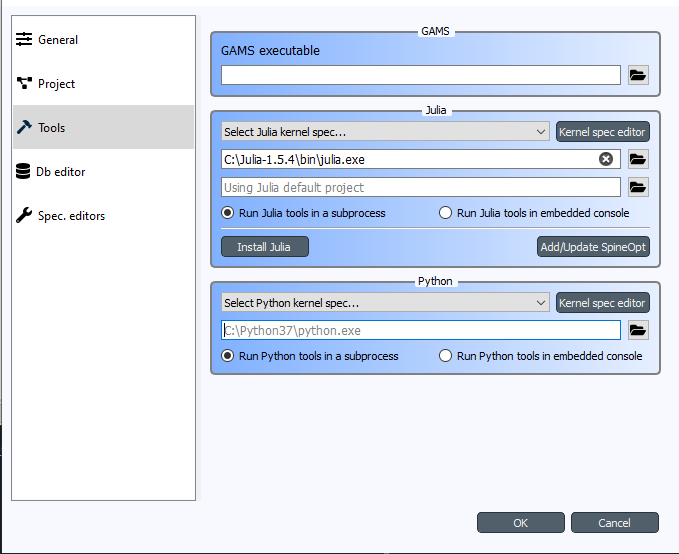
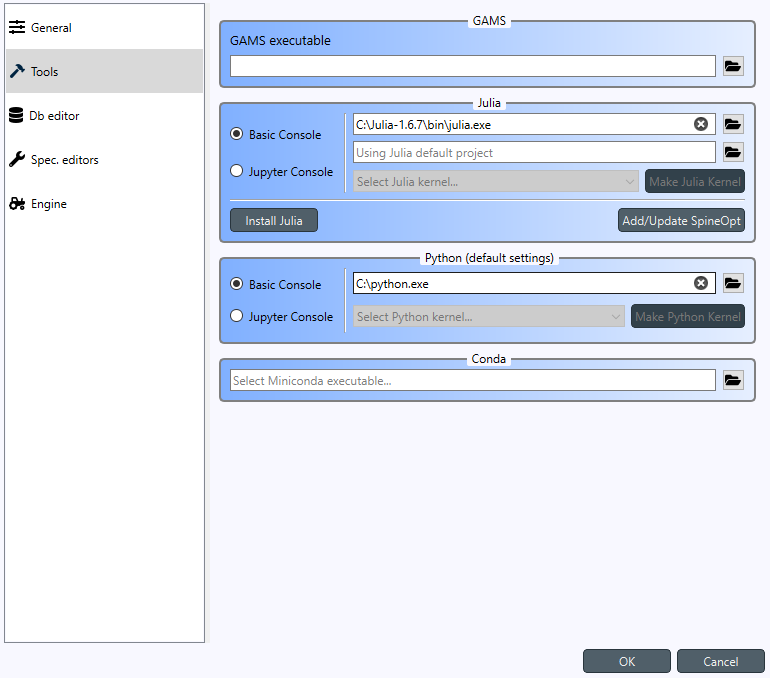
Update docs How to set up SpineOpt.jl -section
Re #2156

diff --git a/docs/source/how_to_run_spineopt.rst b/docs/source/how_to_run_spineopt.rst
@@ -10,29 +10,29 @@
 How to set up SpineOpt.jl
 *************************
 
-#. Install Julia (v1.2 or later) from `<https://julialang.org/downloads/>`_ if you don't have one.
+#. Install Julia (v1.6 or later) from `<https://julialang.org/downloads/>`_ if you don't have one.
    See latest **SpineOpt.jl** Julia compatibility information `here <https://github.com/spine-tools/SpineOpt.jl#spineoptjl>`_.
 
 #. Start Spine Toolbox
 
-#. Create a new project (*File->New project...*)
+#. Create a new project (**File -> New project...**)
 
-#. Select `File->Settings` from the main menu and open the `Tools` page.
+#. Select **File -> Settings** from the main menu and open the `Tools` page.
 
-#. Set a path to a Julia executable to the appropriate line edit (e.g. *C:\\Julia-1.5.4\\bin\\julia.exe*).
+#. Set a path to a Julia executable to the appropriate line edit (e.g. ``C:/Julia-1.5.4/bin/julia.exe``).
    Your selections should look similar to this now.
 
    .. image:: img/settings_tools_filled_for_spineopt_github.png
       :align: center
 
 #. *[Optional]* If you want to install and run SpineOpt in a specific Julia project environment (the place for
-   Project.toml and Manifest.toml), you can set the path to the environment folder to the line edit just below the
-   Julia executable (the one that says *Using Julia default project*).
+   ``Project.toml`` and ``Manifest.toml``), you can set the path to the environment folder to the line edit just below the
+   Julia executable (the one that says `Using Julia default project`).
 
 #. Next, you need to install **SpineOpt.jl** package for the Julia you just selected for Spine Toolbox. You can do
    this manually by `following the instructions <https://github.com/spine-tools/SpineOpt.jl#installation>`_
-   **or** you can install **SpineOpt.jl** by clicking the `Add/Update SpineOpt` button. After clicking the button,
-   an install/upgrade Spineopt wizard appears. Click `Next` twice and finally `Install SpineOpt`.
+   **or** you can install **SpineOpt.jl** by clicking the **Add/Update SpineOpt** button. After clicking the button,
+   an install/upgrade Spineopt wizard appears. Click **Next** twice and finally **Install SpineOpt**.
    **Wait until the process has finished** and you are greeted with this screen.
 
    .. image:: img/spineopt_install_wizard_successful.png
@@ -40,15 +40,17 @@ How to set up SpineOpt.jl
 
    Close the wizard.
 
-#. Click Ok to close the `Settings` window
-#. Back in the main window, select `PlugIns->Install plugin…` from the menu
-#. Select `SpineOpt` and click Ok. After a short while, a red *SpineOpt Plugin Toolbar* appears on the main window.
+#. Click **Ok** to close the **Settings** window
+#. Back in the main window, select **Plugins -> Install plugin…** from the menu
+#. Select `SpineOpt` and click **Ok**. After a short while, a red **SpineOpt Plugin Toolbar** will appear in the main
+   window.
 
 Spine Toolbox and Julia are now correctly set up for running **SpineOpt.jl**. Next step is to
-`Create a project workflow using SpineOpt.jl <https://spine-project.github.io/SpineOpt.jl/latest/getting_started/setup_workflow/>`_
-(takes you to SpineOpt documentation). See also :ref:`Tutorials` for more advanced use cases. For more information
-on how to select a specific Python or Julia version, see :ref:`Setting up External Tools`).
+`Create a project workflow using SpineOpt.jl <https://spine-tools.github.io/SpineOpt.jl/latest/getting_started/setup_workflow/>`_
+(takes you to SpineOpt documentation). See also `Tutorials
+<https://spine-tools.github.io/SpineOpt.jl/latest/tutorial/simple_system/>`_ in SpineOpt documentation for more advanced
+use cases. For more information on how to select a specific Python or Julia version, see :ref:`Setting up External Tools`).
 
-.. note:: The *SpineOpt Plugin Toolbar* contains two predefined Tools that make use of SpineOpt.jl. **The SpineOpt
-   Plugin is not a requirement to run SpineOpt.jl**, they are provided just for convenience and as examples to get
-   you started quickly.
+.. note:: The **SpineOpt Plugin Toolbar** contains an exporter specification as well as three predefined Tools that make
+   use of SpineOpt.jl. **The SpineOpt Plugin is not a requirement to run SpineOpt.jl**, they are provided just for
+   convenience and as examples to get you started quickly.
